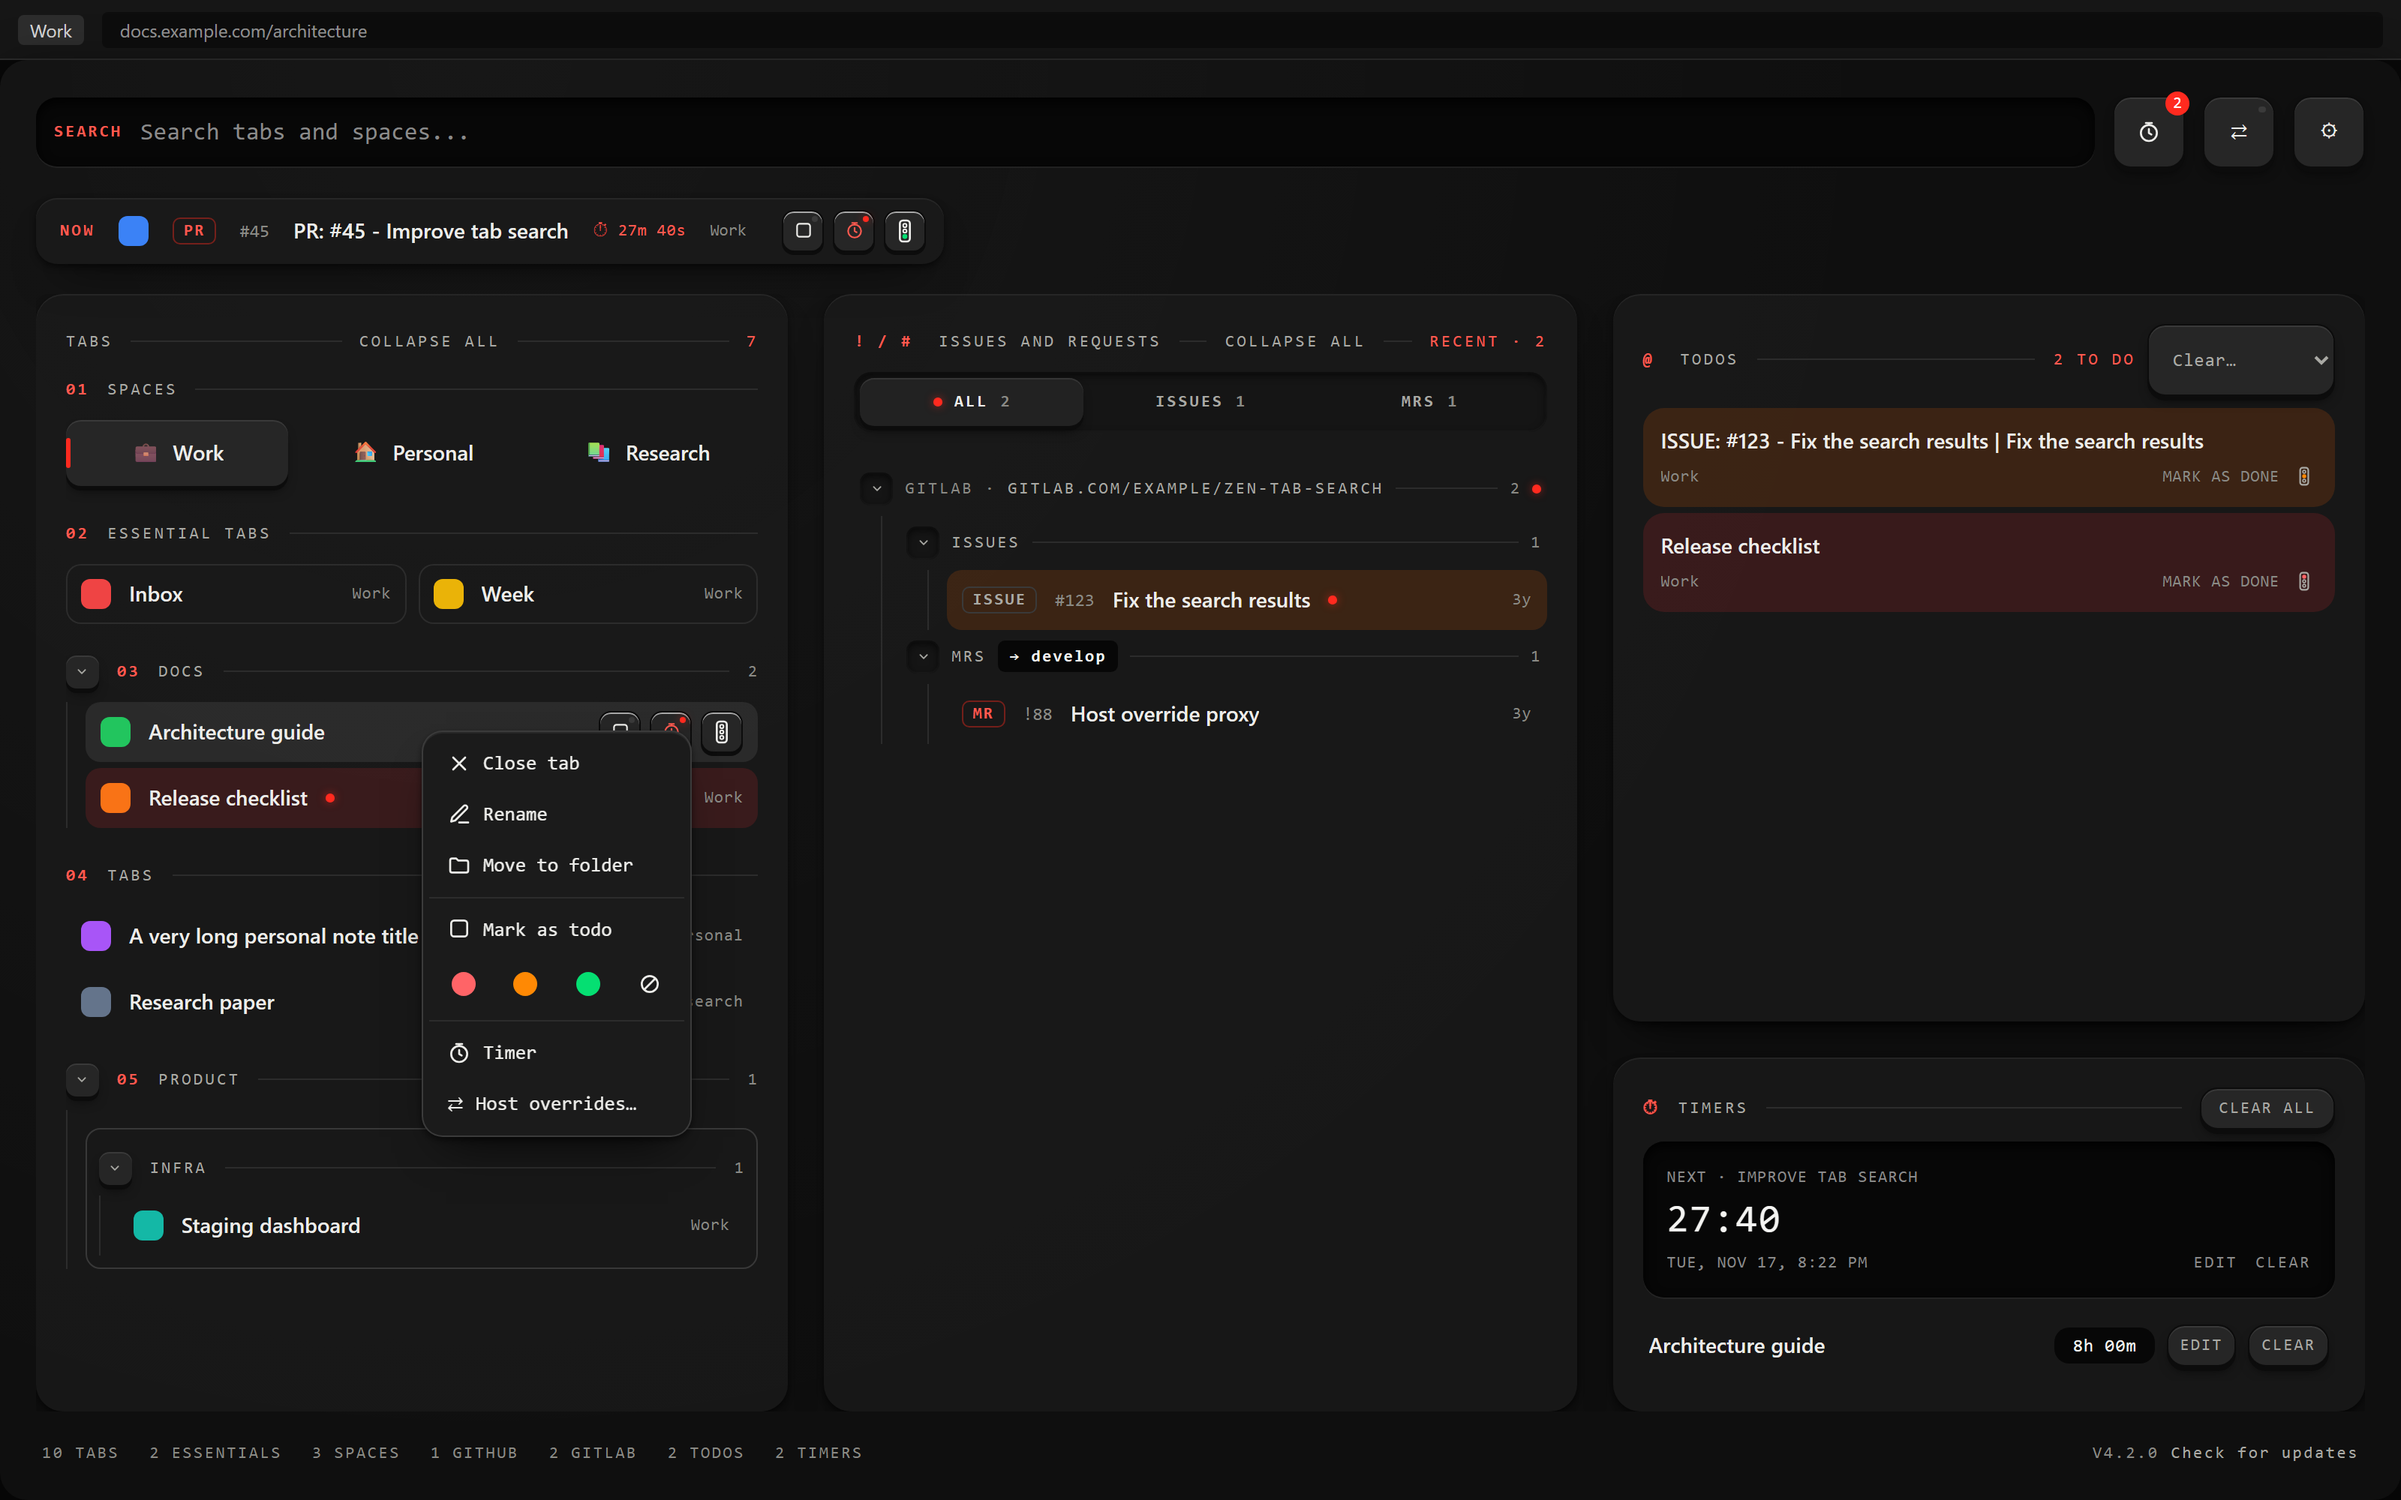
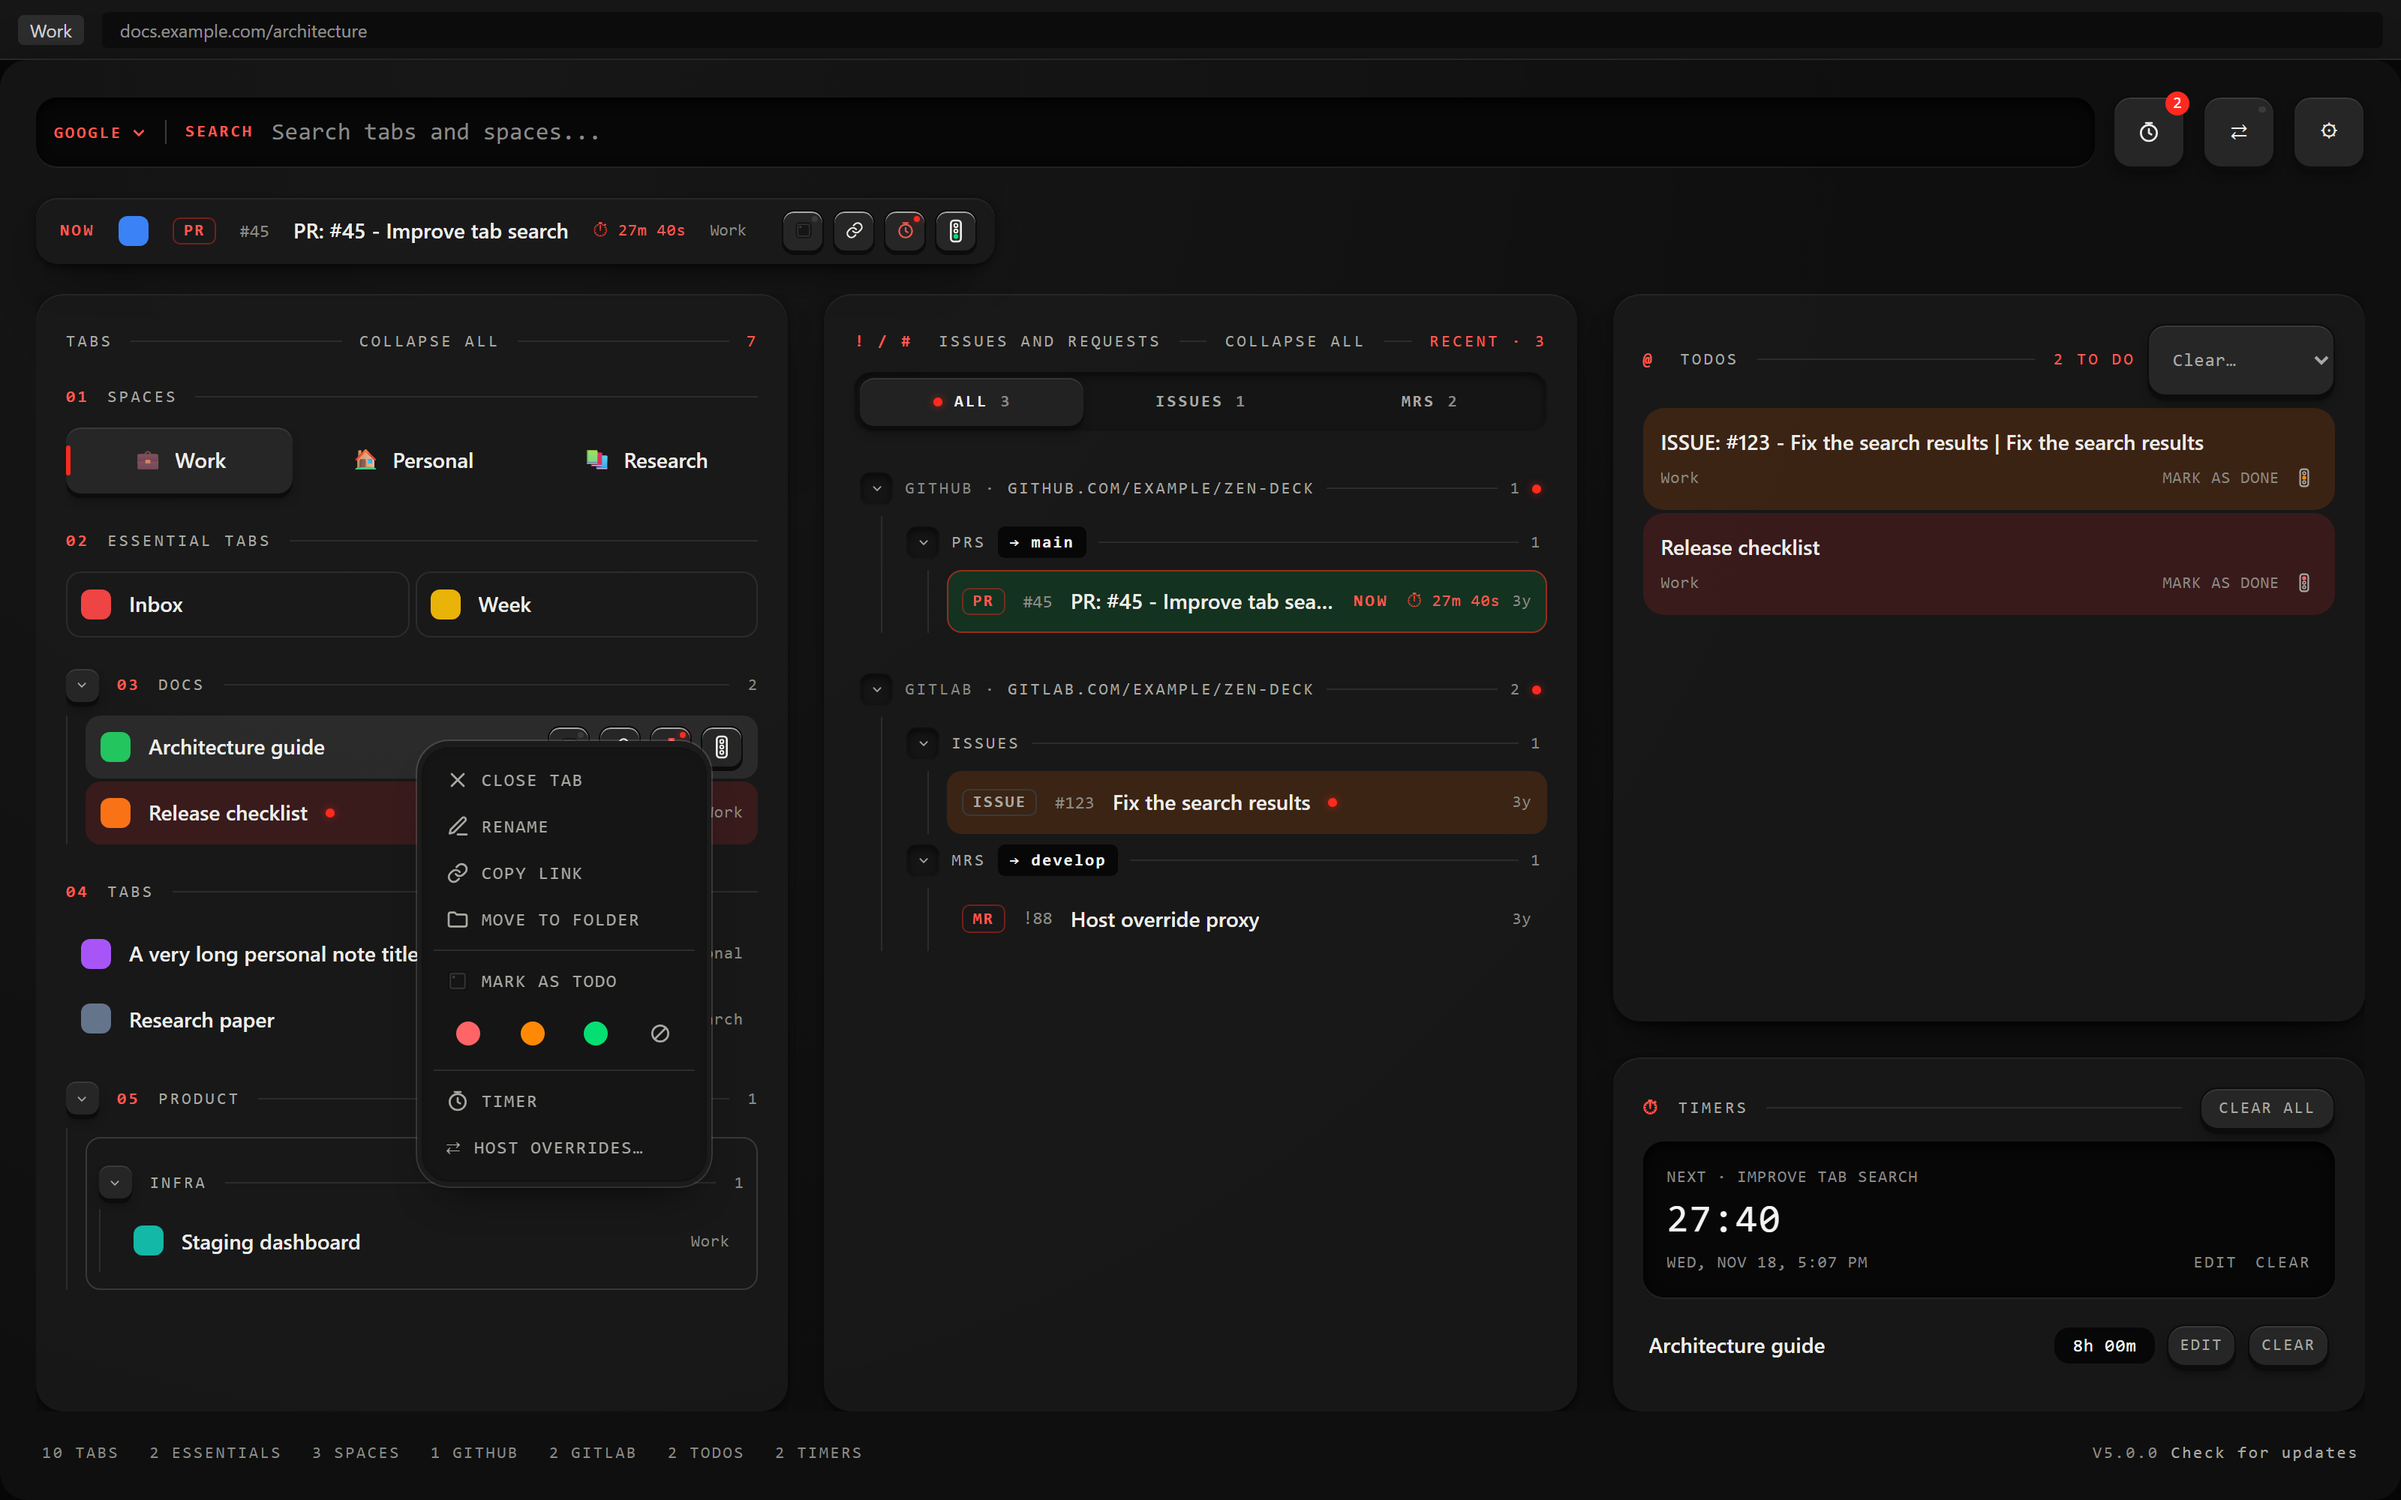
D(readme): document web search, tooltips, copy link and the gap ratio.
zen-tab-search/
├─ README.md
│  │  Web search and Toolbar button sections replace the removed
│  │  popup; Gaps section with the ratio dial; NOW ring, tooltips,
│  │  copy link and the zoom-independent size.
│
├─ screenshots/scenes.ts
│  │  gap-ratio-gap and gap-ratio-padding scenes with wide gaps.
│
├─ screenshots/capture.spec.ts
│  │  web-search, tooltip, gap-ratio-* and gap-settings captures.
│
└─ docs/screenshots/{,dark/}
   │  New captures, plus search-omnibar and tab-context-menu
   │  recaptured for the NOW ring and Copy link.

diff --git a/screenshots/capture.spec.ts b/screenshots/capture.spec.ts
@@ -243,6 +243,53 @@ const captures: Capture[] = [
     clip: "omnibar",
   },
   {
+    scene: "search-omnibar",
+    file: "web-search.png",
+    ready: (page) => waitForSearch(page, true),
+    after: async (page) => {
+      await page.locator("[data-testid='zen-search-input']").fill("firefox keyboard shortcuts");
+      await page.locator("[data-testid='zen-search-engine']").click();
+      await expect(page.locator("[data-testid='zen-search-engine-menu']")).toBeVisible();
+    },
+    around:
+      "[data-testid='zen-search-engine-picker'], [data-testid='zen-search-engine-menu'], [data-testid='zen-search-input']",
+  },
+  {
+    scene: "search-omnibar",
+    file: "tooltip.png",
+    ready: (page) => waitForSearch(page, true),
+    after: async (page) => {
+      const row = await tabRow(page);
+      await row.hover();
+      const copy = row.getByRole("button", { name: "Copy link" });
+      await copy.hover();
+      await expect(page.locator("[role='tooltip']")).toBeVisible();
+      // Let the legend finish printing its letters.
+      await page.waitForTimeout(1200);
+    },
+    around: "[role='tooltip'], [data-testid='zen-search-item']:has(button[aria-label='Copy link']:hover)",
+  },
+  {
+    scene: "gap-ratio-gap",
+    file: "gap-ratio-gap.png",
+    ready: (page) => waitForSearch(page, true),
+    around: "[data-testid='zen-essential-section'], [data-testid='zen-tab-list']",
+  },
+  {
+    scene: "gap-ratio-padding",
+    file: "gap-ratio-padding.png",
+    ready: (page) => waitForSearch(page, true),
+    around: "[data-testid='zen-essential-section'], [data-testid='zen-tab-list']",
+  },
+  {
+    scene: "display-settings",
+    file: "gap-settings.png",
+    ready: async (page) => {
+      await expect(page.getByRole("heading", { name: "Settings", exact: true })).toBeVisible();
+    },
+    locator: "section:has([data-testid='zen-gapPaddingRatio'])",
+  },
+  {
     scene: "display-settings",
     file: "background-opacity-settings.png",
     ready: async (page) => {

diff --git a/screenshots/scenes.ts b/screenshots/scenes.ts
@@ -78,6 +78,19 @@ const SCENES: Record<string, HarnessScene> = {
     },
   },
   "folder-groups": { id: "folder-groups", surface: "search", layout: "overlay" },
+  // Wide gaps so the ratio's split between gap and padding is easy to see.
+  "gap-ratio-gap": {
+    id: "gap-ratio-gap",
+    surface: "search",
+    layout: "overlay",
+    displaySettings: { gapPaddingRatio: 0, tabGap: 12, issueGap: 12, todoGap: 12 },
+  },
+  "gap-ratio-padding": {
+    id: "gap-ratio-padding",
+    surface: "search",
+    layout: "overlay",
+    displaySettings: { gapPaddingRatio: 4, tabGap: 12, issueGap: 12, todoGap: 12 },
+  },
   // Forge tabs stay in the list here, so the current PR sits in its collapsed folder.
   "collapsed-folders": {
     id: "collapsed-folders",

diff --git a/README.md b/README.md
@@ -13,12 +13,14 @@ Zen Deck is a control surface for [Zen Browser](https://zen-browser.app/): searc
   - [Settings](#settings)
   - [Omnibar](#omnibar)
   - [Folders](#folders)
-  - [Toolbar popup (removed)](#toolbar-popup-removed)
+  - [Web search](#web-search)
+  - [Toolbar button](#toolbar-button)
   - [Status, rename, and the tab menu](#status-rename-and-the-tab-menu)
   - [Pinned URLs](#pinned-urls)
   - [Timers](#timers)
   - [Host overrides](#host-overrides)
   - [Layout and theme](#layout-and-theme)
+  - [Gaps](#gaps)
   - [Sound](#sound)
   - [Reuse an open tab for external links](#reuse-an-open-tab-for-external-links)
   - [AI agents (MCP)](#ai-agents-mcp)
@@ -85,11 +87,14 @@ Every option in this guide lives in **Display options**. Open it from the ⚙ ge
 - **Search** titles, URLs, and custom labels across every Zen space.
 - **Spaces and essential tabs** sit in grids above the list. Zen folders become their own sections.
 - **NOW strip** under the search field shows the tab you are on, with its status, timer, and todo controls. Click the strip to close the search: that tab is already on screen. The keys on the strip keep the search open.
-- **Tab keys** for close, rename, todo, timer, and host sit on the right of each row. They appear when you point at the row, and the timer and host readout steps aside for them.
+- **The current tab** is ringed and tagged **NOW** wherever it appears, in the tab list and in the issue navigator. When its folder or project is folded, it still peeks out.
+- **Tab keys** for close, rename, todo, copy link, timer, and host sit on the right of each row. They appear when you point at the row, and the timer and host readout steps aside for them.
+- **Tooltips** print each key's legend on a small LCD when the pointer rests on it. A cut-off title shows in full the same way.
 - **Issues** from GitHub and GitLab open in a navigator beside the tabs, grouped by project, with each request's target branch shown.
 - **Todos** sit in a third column as tinted blocks, each with a **Mark as done** button and a **Clear…** dropdown for the whole column.
 - **Keyboard:** `Up` and `Down` move one result, `Left` and `Right` jump several, `Enter` activates, `Escape` closes, and `Tab` moves between the tab list and the issue navigator.
 - **Prefixes:** `#` lists issues, `!` lists merge and pull requests, and `@` jumps to todos.
+- **Web:** `Shift+Enter` opens what you typed as a site, or searches the web for it. See [Web search](#web-search).
 
 > **Note:** the browser chrome is the browser's own interface around the page, such as the toolbars, sidebar and tab strip. It is not Google Chrome. Zen is built on Firefox, so this is the Firefox-style chrome you already know.
 
@@ -137,15 +142,31 @@ In a tab's context menu, **Move to folder** lists every folder as `Space · Pare
   </tr>
 </table>
 
-### Toolbar popup (removed)
+### Web search
 
-The toolbar popup has been removed. Its code remains in the repository but is inactive and can no longer be reached. Use the omnibar instead: `Alt+F` opens it, and on pages with no attachable DOM it is hosted in the browser chrome, so search still works there.
+The engine sits at the left end of the search field. Click it to pick Google, DuckDuckGo, Bing, Brave, Kagi, Startpage, or Ecosia; the choice is remembered.
+
+`Shift+Enter` takes whatever is in the field to the web, in a new tab:
+
+- **A site** opens directly: `github.com/zen-browser`, `localhost:3000`, or an IP address.
+- **Anything else** is searched with your engine. Start the query with `?` to search for something that looks like a site.
+
+<p align="center">
+  <picture>
+    <source media="(prefers-color-scheme: dark)" srcset="docs/screenshots/dark/web-search.png">
+    <img src="docs/screenshots/web-search.png" alt="The search engine menu at the left of the search field" width="720" />
+  </picture>
+</p>
+
+### Toolbar button
+
+Clicking Zen Deck's toolbar button opens the omnibar, the same as `Alt+F`. The old toolbar popup, and the settings that only applied to it, are gone.
 
 ### Status, rename, and the tab menu
 
 Right-click a tab to open its context menu. All of the extension's extra features are gathered there, and some of Zen's own browser features are built into it too:
 
-- **Close tab**, **Rename**, and **Move to folder** or **Remove from folder**
+- **Close tab**, **Rename**, **Copy link**, and **Move to folder** or **Remove from folder**
 - The pinned URL actions for pinned and essential tabs
 - A status row
 - **Mark as todo**, **Timer**, and **Host overrides**
@@ -236,7 +257,7 @@ The interface uses IBM Plex Mono and Inter, bundled with the extension, so the o
   </picture>
 </p>
 
-Hide the spaces grid, the essential-tabs grid, or both; hidden ones still turn up as soon as you search. **Truncate** shortens long tab and issue titles by default. Switch it off to wrap the full title onto several lines. Font size, density, and the gap sliders reshape the omnibar. On the omnibar, **Ctrl + mouse wheel** changes the font size one pixel per notch, the same as the Font size slider. Accent, frame, panels, and text each have their own reset.
+Hide the spaces grid, the essential-tabs grid, or both; hidden ones still turn up as soon as you search. **Truncate** shortens long tab and issue titles by default. Switch it off to wrap the full title onto several lines. Font size, density, and the gap sliders reshape the omnibar, and the omnibar keeps its size whatever the page zoom. On the omnibar, **Ctrl + mouse wheel** changes the font size one pixel per notch, the same as the Font size slider. Accent, frame, panels, and text each have their own reset.
 
 The four colour keys start on AUTO. Light and dark each keep their own palette until you pick a colour:
 
@@ -263,6 +284,21 @@ The four colour keys start on AUTO. Light and dark each keep their own palette u
     <img src="docs/screenshots/spacing-size-and-zoom.png" alt="Omnibar with a larger font size and density" width="720" />
   </picture>
 </p>
+
+### Gaps
+
+The **Gaps** module has a slider for each kind of neighbour: spaces, essentials, tabs, sections, folders, issues and requests, and todos. The **Padding to gap ratio** dial decides how each of those amounts is spent. At 1 it is split evenly; turn it down and the space becomes gap between the elements, turn it up and it becomes padding inside them, so rows get roomier without drifting apart.
+
+<p align="center">
+  <picture>
+    <source media="(prefers-color-scheme: dark)" srcset="docs/screenshots/dark/gap-settings.png">
+    <img src="docs/screenshots/gap-settings.png" alt="The Gaps module with a slider per neighbour and the ratio dial" width="720" />
+  </picture>
+</p>
+
+| Ratio 0: all gap | Ratio 4: mostly padding |
+| :---: | :---: |
+| ![Rows separated by gaps](docs/screenshots/gap-ratio-gap.png) | ![Rows with taller padding](docs/screenshots/gap-ratio-padding.png) |
 
 ### Sound
 
